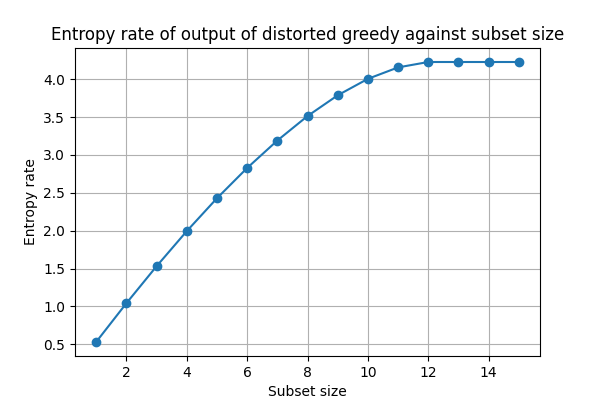
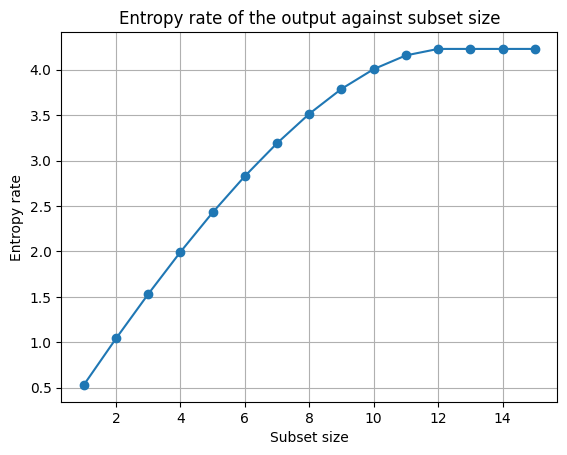
revised plot titles

diff --git a/entropy_rate/distorted_greedy.py b/entropy_rate/distorted_greedy.py
@@ -326,9 +326,9 @@ def plot_objective_per_iteration(f_values):
 #  MAIN
 # -----------------------------------------------------------------------
 if __name__=="__main__":
-    N = 4
+    N = 3
     d = 15
-    l_values = [5]*d
+    l_values = [3]*d
     s = 1
 
     state_space, pi, P = torch_MC_generation(N, d, l_values, s)
@@ -351,7 +351,7 @@ if __name__=="__main__":
     U = set(range(d))
     f_values = []
 
-    for m in range(1, d+1):
+    for m in range(1, d + 1):
         chosen_subset = distorted_greedy(submod_func, modular_func, U, m)
         f_val = submod_func(chosen_subset)
         f_values.append(f_val)

diff --git a/entropy_rate/generalized_distorted_greedy.py b/entropy_rate/generalized_distorted_greedy.py
@@ -344,7 +344,7 @@ if __name__ == "__main__":
     #plt.figure()
     #plt.plot(range(1, len(f_vals)+1), f_vals, marker='o')
     #plt.xlabel("Subset size")
-    #plt.ylabel("Summed entropy rates")
-    #plt.title("Summed entropy rates of output of generalized distorted greedy against subset size")
+    #plt.ylabel("Entropy rate")
+    #plt.title("Entropy rate of the tensorized output against subset size")
     #plt.grid(True)
     #plt.show()
